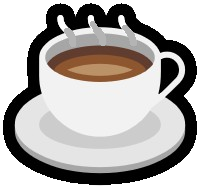
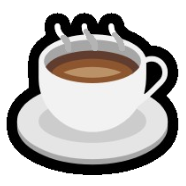
bru

diff --git a/95rebirth.html b/95rebirth.html
@@ -8,7 +8,7 @@
     <title>9-5 Simulator Remastered</title>
     <link rel="stylesheet" href="./style.css">
     <link rel="icon" href="./95favicon.png" type="image/x-icon">
-    <link rel="apple-touch-icon" sizes="180x180" href="apple-touch-icon.png">
+    <link rel="apple-touch-icon" sizes="186x186" href="apple-touch-icon.png">
   </head>
   <body>
     <main>
